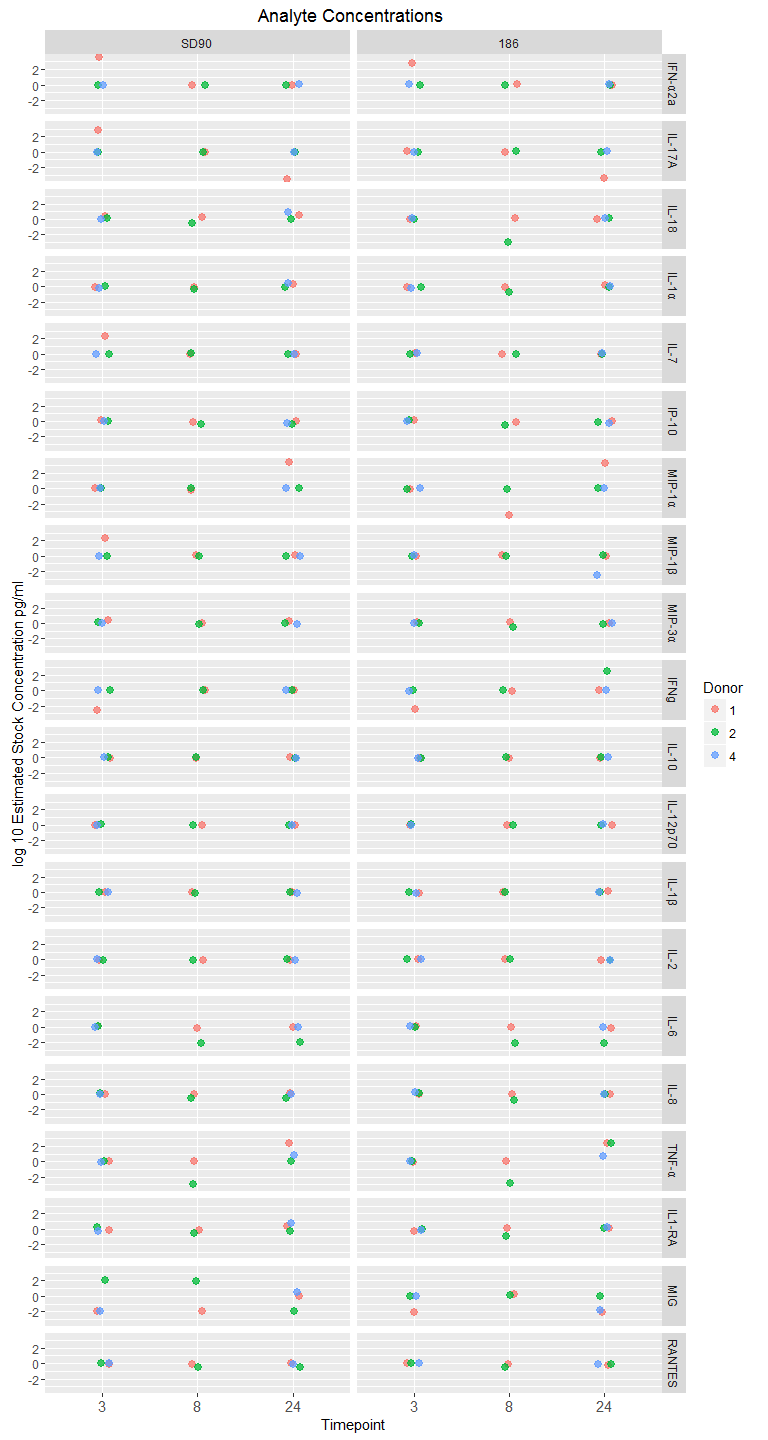
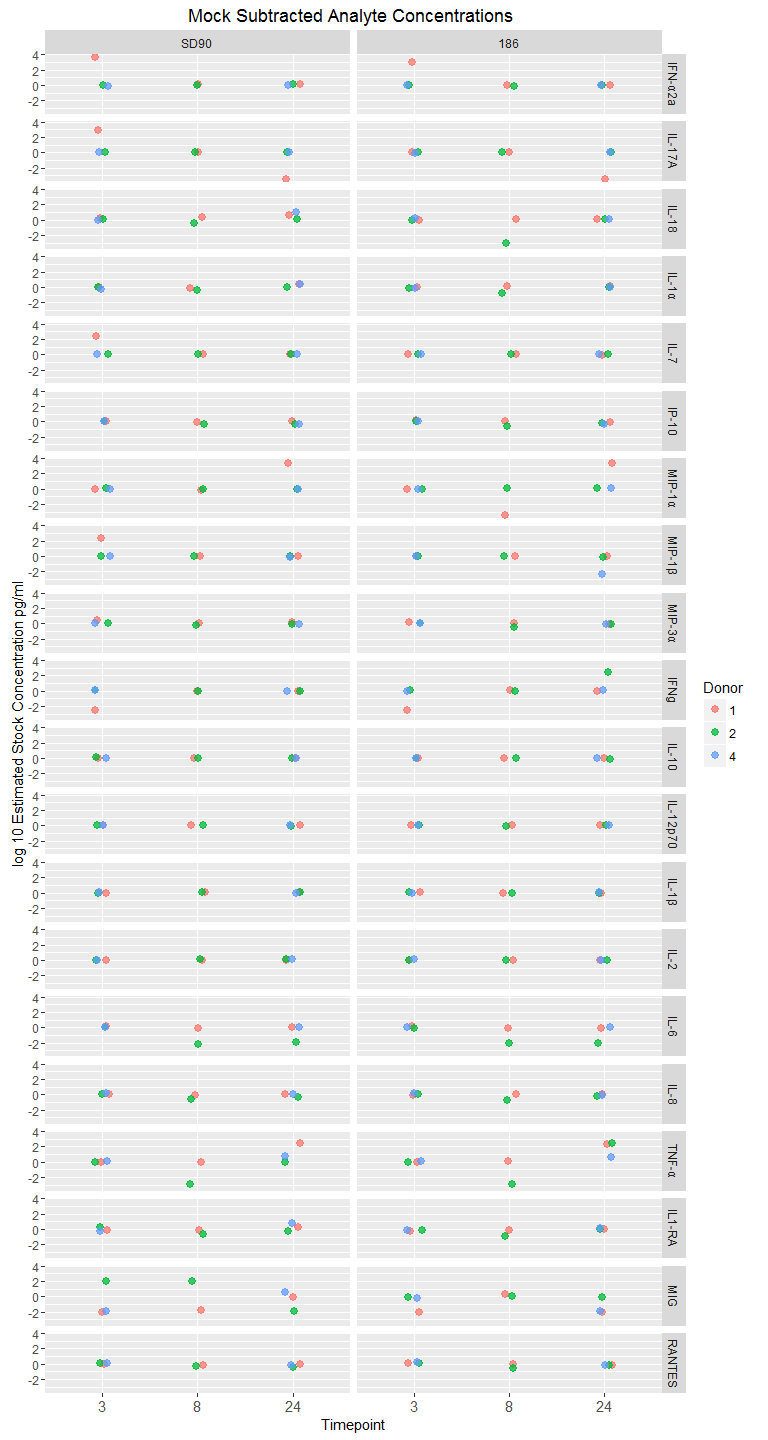
added scatter plots back to HVE file and edited plot titles in both files

diff --git a/MSD_panels_1_2_3_explant_sup_analysis.md b/MSD_panels_1_2_3_explant_sup_analysis.md
@@ -82,6 +82,12 @@ We did a 1:5 dilution of the samples so I multiplied the concentrations by 5 to 
 
 If a sample had one rep that was below detection and another that was in range, I used the remaining "in range" rep as the "average" for that sample.
 
+![](MSD_panels_1_2_3_explant_sup_analysis_files/figure-markdown_github/scatter%20plots%20of%20mocksubtracted-1.png)
+
+This is just donors 317,318,323 and 324, which were interesting in the microarray
+
+![](MSD_panels_1_2_3_explant_sup_analysis_files/figure-markdown_github/subset%20scatter%20plots-1.png)
+
 ![](MSD_panels_1_2_3_explant_sup_analysis_files/figure-markdown_github/logFC%20heatmap-1.png)
 
 Here is the same heat map with some changes to to Assay names and order:
